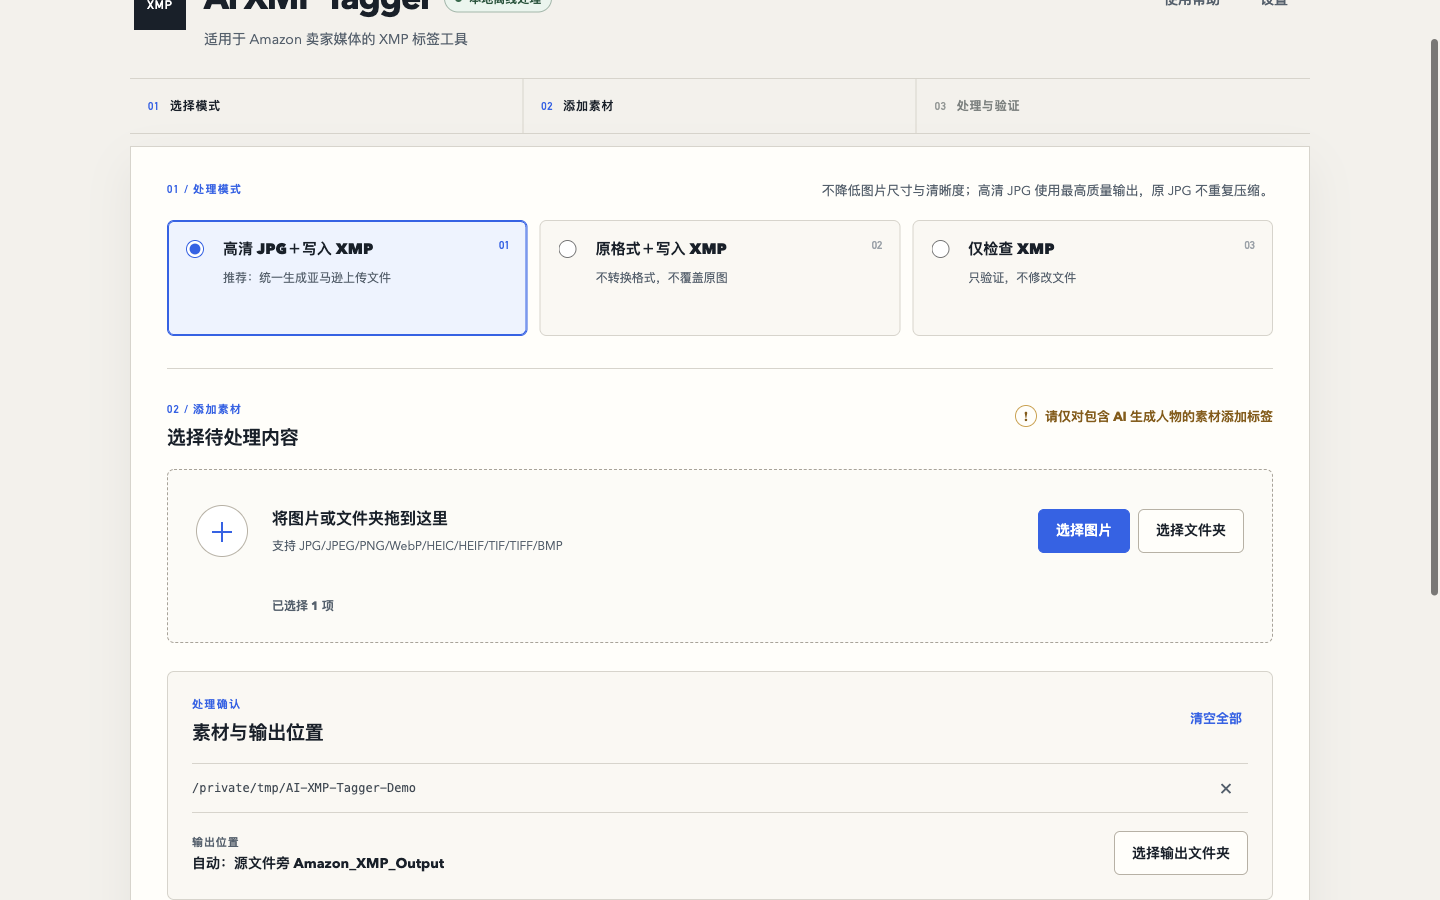
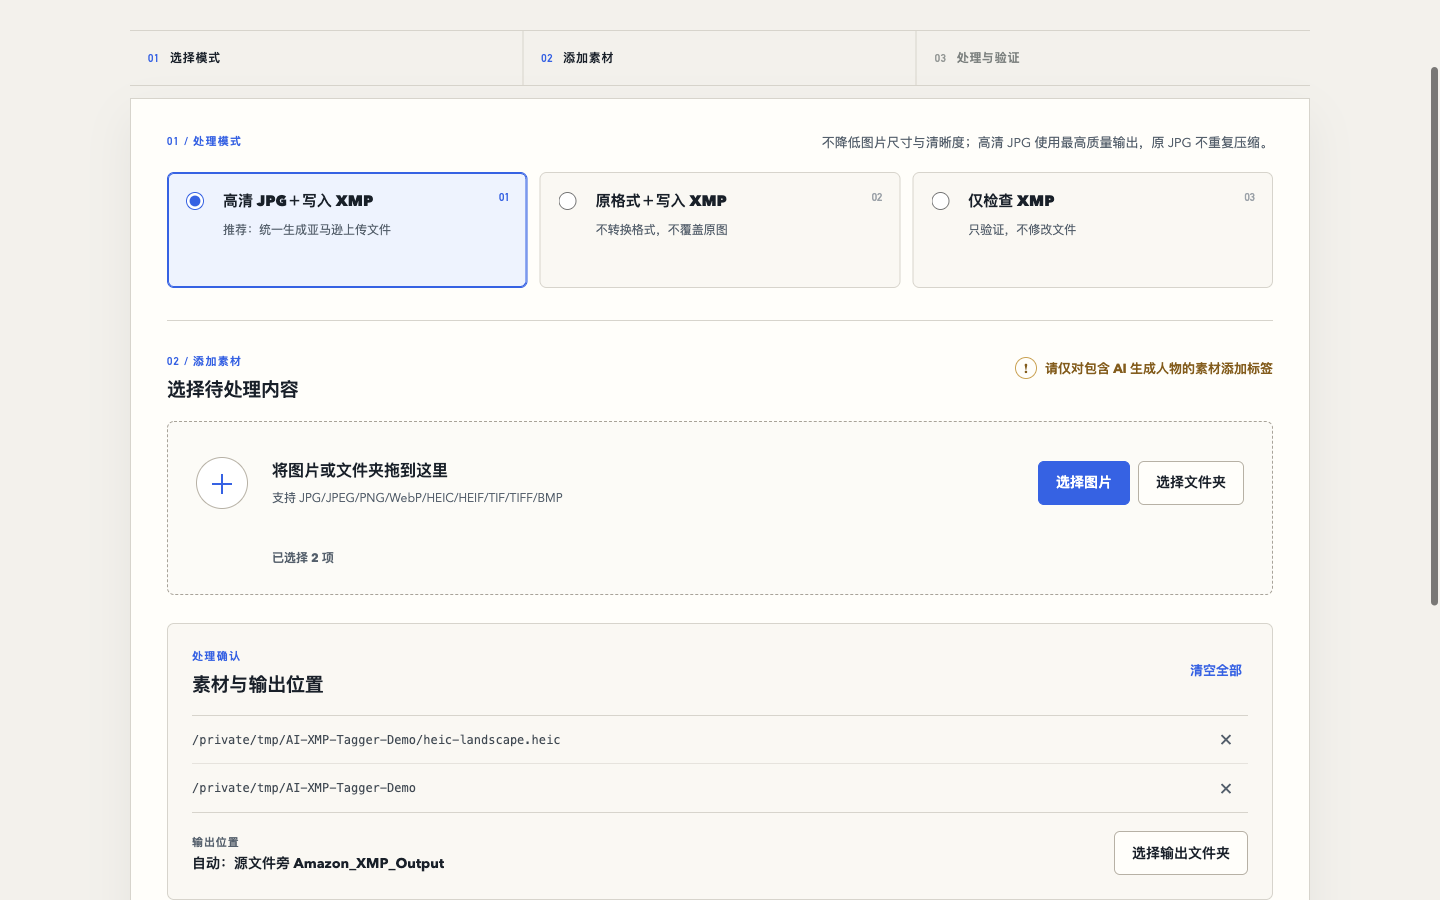
fix: show complete fixture batch walkthrough

diff --git a/index.html b/index.html
@@ -136,12 +136,12 @@
               src="./images/app-input.png"
               width="1440"
               height="900"
-              alt="AI XMP Tagger 输入界面，显示添加图片文件和添加文件夹入口"
+              alt="AI XMP Tagger 输入界面，同时添加单个中性测试图片和测试文件夹"
               loading="lazy"
               decoding="async"
             >
             <figcaption>
-              可添加单个或多个文件，也可一次添加整个文件夹。
+              示例同时添加单个文件与包含两张中性测试素材的文件夹；应用在处理前按文件去重。
             </figcaption>
           </figure>
 
@@ -150,7 +150,7 @@
               src="./images/app-results.png"
               width="1440"
               height="900"
-              alt="AI XMP Tagger 结果界面，逐项显示 XMP 写入与重新验证成功状态"
+              alt="AI XMP Tagger 结果界面，显示两张中性测试图片的 XMP 写入与重新验证成功状态"
               loading="lazy"
               decoding="async"
             >

diff --git a/tests/site.spec.js b/tests/site.spec.js
@@ -55,6 +55,14 @@ test("product walkthrough uses six native-size descriptive PNGs with intentional
     "./images/app-report.png",
     "./images/xmp-verification.png",
   ]);
+  await expect(screenshots.nth(2)).toHaveAttribute(
+    "alt",
+    /同时添加单个中性测试图片和测试文件夹/,
+  );
+  await expect(screenshots.nth(3)).toHaveAttribute(
+    "alt",
+    /两张中性测试图片/,
+  );
 
   for (let index = 0; index < 6; index += 1) {
     const image = screenshots.nth(index);
